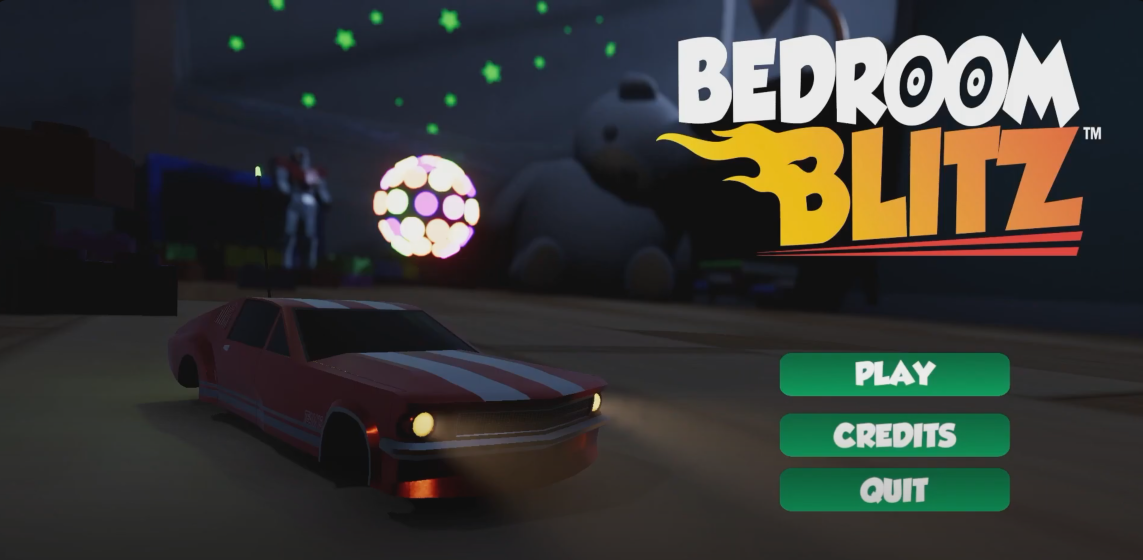
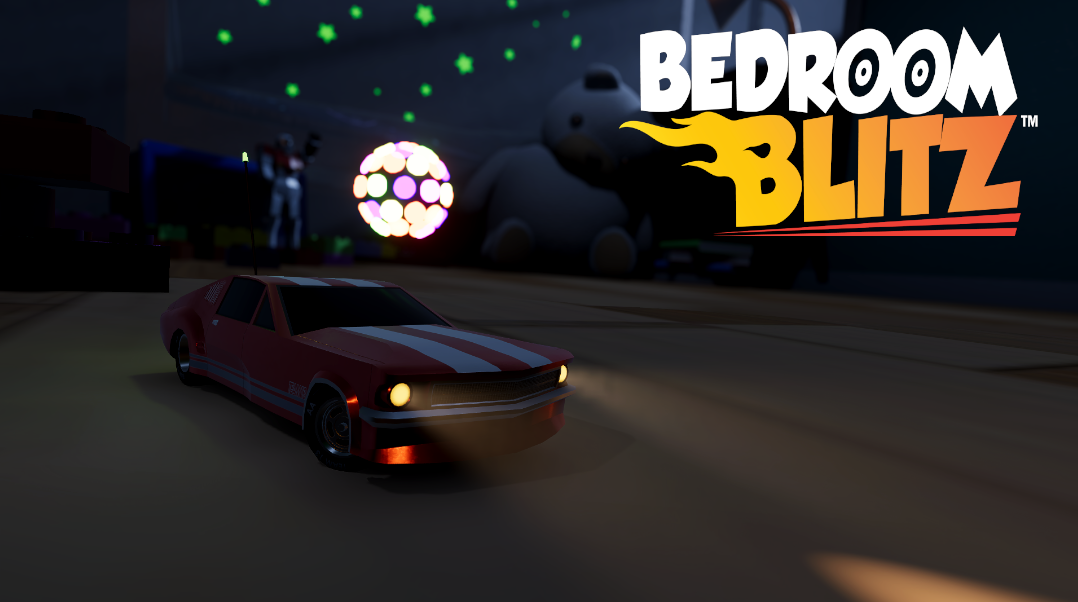
change backgrounds & img

diff --git a/index.html b/index.html
@@ -44,7 +44,7 @@
                     </div>
                     <!-- Right side: Image -->
                     <div class="col-lg-6 align-self-end text-lg-end text-center">
-                        <img src="assets/img/MijnFoto.jpg" class="img-fluid" style="max-width: 60%; height: auto; margin-left: 200px; margin-top: 250px;" alt="img" />
+                        <img src="assets/img/MijnFoto.jpg" class="img-fluid" style="max-width: 65%; height: auto; margin-left: 200px; margin-top: 200px;" alt="img" />
                     </div>
                     <!-- Below: Button -->
                    
@@ -56,18 +56,18 @@
                 </div>
             </div>
         </header>
-        <section class="page-section" id="portfolio" style="margin-top: -500px;">
+        <section class="page-section" id="portfolio" style="margin-top: -500px; background-color: lightblue;">
             <div class="row">
-                <section class="page-section" id="services" style=" background-color: lightcyan;">
+                <section class="page-section" id="services">
                     <div class="container px-4 px-lg-5">
                         <h2 class="text-center mb-1" style="position: relative; top: 430px;">My Projects</h2>
                         <hr class="divider" style="position: relative; top: 430px;" />
-                        <hr style="width: 50px; border-width: 2px; border-color: #ffffff; margin-top: 0 auto 5px; margin-bottom: auto;"/>
+                        <hr style="width: 50px; border-width: 2px; border-color: #ffffff; margin-top: 0 auto 5px; margin-bottom: auto;" />
                     </div>
                 </section>
                 <div class="col-lg-4 col-sm-6 mb-4">
                     <a class="portfolio-box" href="page1.html" title="BedroomBlitz">
-                        <img class="img-fluid" src="assets/img/BedroomBlitzImg.png" style="height: 90%; width: 100%;" />
+                        <img class="img-fluid" src="assets/img/BedroomBlitz.png" style="height: 90%; width: 100%;" />
                         <div class="portfolio-box-caption">
                             <div class="project-category text-white-50">Category</div>
                             <div class="project-name" style="font-family:Merriweather Sans">BedroomBlitz</div>
@@ -88,7 +88,7 @@
                         <img class="img-fluid" src="assets/img/SpaceBall.png" alt="Space Ball" style="height: 90%" />
                         <div class="portfolio-box-caption">
                             <div class="project-category text-white-50">Category</div>
-                            <div class="project-name"style="font-family:Merriweather Sans">Space Ball</div>
+                            <div class="project-name" style="font-family:Merriweather Sans">Space Ball</div>
                         </div>
                     </a>
                 </div>
@@ -104,9 +104,9 @@
             </div>
         </section>
         <!-- Contact-->
-        <section class="page-section" id="contact" style="background-color: lightgrey; height: 50%; margin-top: 50px;">
+        <section class="page-section" id="contact" style="background-color:blue ; height: 50%;">
                 <div class="row gx-4 gx-lg-5 justify-content-center" style="height: 70%;">
-                    <div class="col-lg-8 col-xl-6 text-center" style="margin-top: -50px;">
+                    <div class="col-lg-8 col-xl-6 text-center" style="margin-top: 20px; color: white;">
                         <h2 class="mt-0">Contact</h2>
                         <hr class="divider" />
                         <a href="https://www.linkedin.com/in/baran-atakan-canakci-14a5961b9/">
@@ -115,7 +115,7 @@
                         <a href="https://mail.google.com/mail/u/0/#inbox?compose=CllgCJfprrWVMmbLbktjjscTrtrCspLcqJjlGGbFctJskbDFsnfnMvhVbMxRJxkkGbNSmwFHfPg" target="_blank">
                             <img src="https://upload.wikimedia.org/wikipedia/commons/4/4e/Gmail_Icon.png" alt="Gmail Logo" style="width: 35px; height: 35px;"  />
                         </a>
-                        <div style="margin-top: 50px; font-size: 15px;">
+                        <div style="margin-top: 50px; font-size: 15px; color: white; ">
                             <p>BaranAtakanCanakci11@gmail.com</p>
                         </div>
                     </div>

diff --git a/css/styles.css b/css/styles.css
@@ -178,7 +178,7 @@ body {
   line-height: var(--bs-body-line-height);
   color: var(--bs-body-color);
   text-align: var(--bs-body-text-align);
-  background-color: beige;
+  //background-color: lightblue;
   -webkit-text-size-adjust: 100%;
   -webkit-tap-highlight-color: rgba(0, 0, 0, 0);
 }
